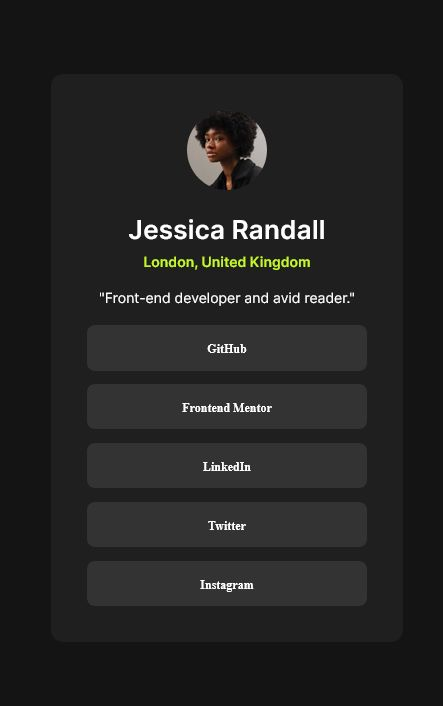
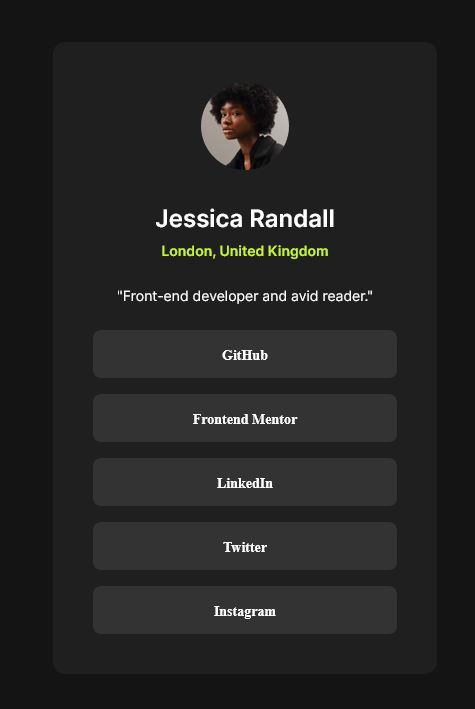
tweaks to margins and padding

diff --git a/style.css b/style.css
@@ -35,6 +35,7 @@ body {
     min-height: 100vh;
     display: flex;
     flex-direction: column;
+    line-height: 1.5;
 }
 
 .links-profile {
@@ -47,18 +48,18 @@ body {
 }
 
 .links-profile__image img {
-    width: 5rem;
+    width: 5.5rem;
     border-radius: 50%;
 }
 
 .links-profile__header {
-    margin: 1.2rem 0;
+    margin: 1.5rem 0;
 }
 
 h1 {
     font-family: "Inter";
     font-weight: 600;
-    font-size: 1.65rem;
+    font-size: 1.5rem;
     color: var(--neutral-wht);
 }
 
@@ -71,20 +72,24 @@ p {
 
 .links-profile__location {
     color: var(--primary-cl);
-    margin-top: 0.5rem;
+    margin-top: 0.25rem;
     font-weight: 600;
 }
 
 .links-profile__talent {
-    margin-top: 1.2rem;
+    margin-top: 1.5rem;
+}
+
+.links-profile__btn {
+    margin-top: 1.5rem;
 }
 
 .links-profile__btn li {
     width: 100%;
-    padding: 0.85rem;
+    padding: 0.75rem;
     list-style: none;
     cursor: pointer;
-    margin-top: 0.85rem;
+    margin-top: 1rem;
     background-color: var(--neutral-gry);
     border: none;
     border-radius: 8px;
@@ -102,7 +107,7 @@ p {
     text-decoration: none;
     color: var(--neutral-wht);
     font-weight: 600;
-    font-size: 0.75rem;
+    font-size: 0.875rem;
 }
 
 .attribution {
@@ -119,7 +124,7 @@ p {
 
 @media screen and (min-width: 768px) {
     .links-profile {
-        width: 22rem;
-        padding: 36px;
+        width: 24rem;
+        padding: 40px;
     }
 }

diff --git a/index.html b/index.html
@@ -20,9 +20,9 @@
     <header class="links-profile__header">
       <h1>Jessica Randall</h1>
       <p class="links-profile__location">London, United Kingdom</p>
-      <p class="links-profile__talent">"Front-end developer and avid reader."</p>
     </header>
 
+    <p class="links-profile__talent">"Front-end developer and avid reader."</p>
 
     <section class="links-profile__btn">
       <ul>
